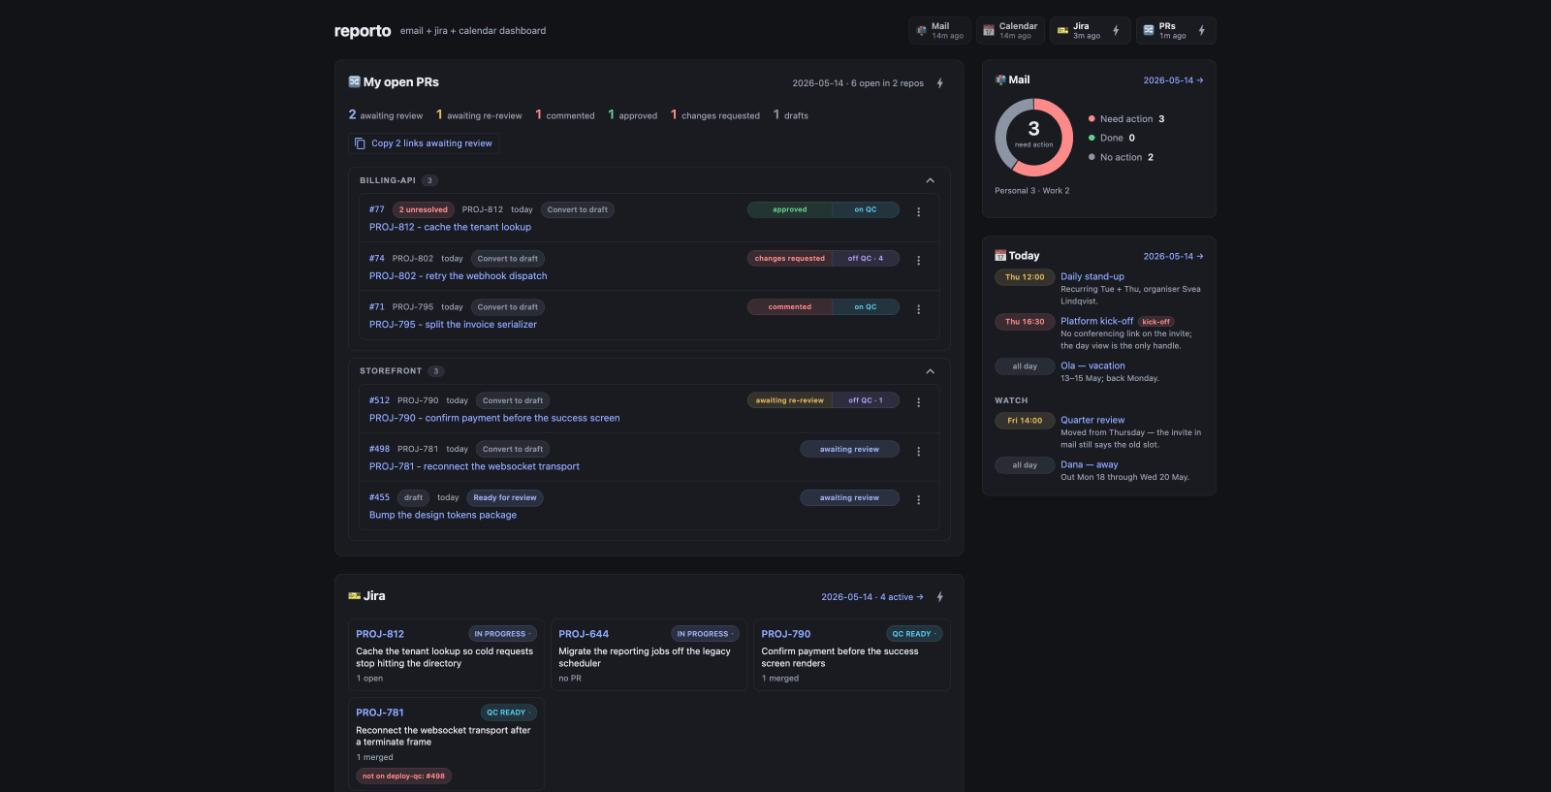
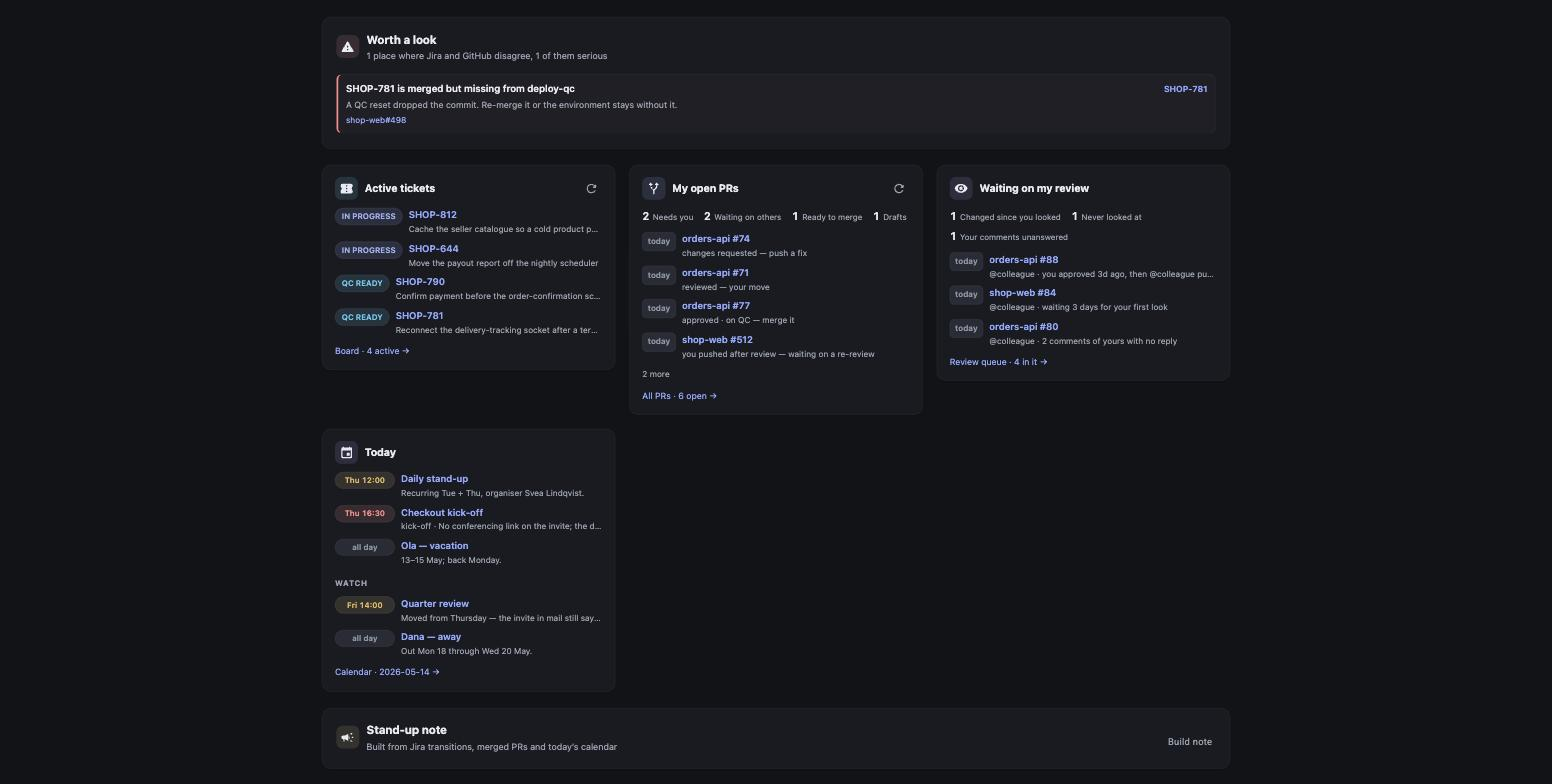
reshoot the README screenshots on the module dashboard
The screenshots still showed the old layout — the Jira panel and the PR lanes embedded
whole, with a band of monthly statistics under them. Both palettes are re-shot from the
Pages/Home story, so they show what the dashboard is now: the flow-check card, four
modules, the stand-up note.

The story restamps the review queue's dates the way it already did the PRs. Fixture
dates are fixed so stories stay deterministic, which made every review row read "104d"
— an artefact of the fixture, not something worth photographing.

diff --git a/src/stories/HomePage.stories.tsx b/src/stories/HomePage.stories.tsx
@@ -16,12 +16,24 @@ const freshPrs = {
   })),
 };
 
+/** Same for the review queue: an age pill reading "104d" is the fixture's date, not a fact. */
+const freshReviews = {
+  ...reviewsReport,
+  prs: reviewsReport.prs.map((pr, i) => ({
+    ...pr,
+    updatedAt: minutesAgo(60 + i * 120),
+    lastCommitAt: minutesAgo(60 + i * 120),
+    createdAt: minutesAgo(60 * 24 * (2 + i)),
+    myReviewAt: pr.myReviewAt ? minutesAgo(60 * 24 * (3 + i)) : null,
+  })),
+};
+
 const meta = {
   title: 'Pages/Home',
   component: HomePage,
   args: {
     jira: jiraReport,
-    reviews: reviewsReport,
+    reviews: freshReviews,
     calendar: calendarReport,
     prs: freshPrs,
   },

diff --git a/README.md b/README.md
@@ -6,12 +6,15 @@ calendar, each rendered from a JSON report on disk.
 **This is a single-user, local-only app by design.** See
 [Why it stays local](#why-it-stays-local) before considering deploying it anywhere.
 
-![The dashboard: open PRs with review and deploy-qc state, Jira tickets and the calendar
-widget](docs/home.jpg)
+![The dashboard: a flow-check card, then modules for active tickets, my open PRs, the review
+queue and today's calendar, and the stand-up note](docs/home.jpg)
 
-Rendered from the synthetic fixtures in `src/stories/fixtures.ts` via the `Pages/Home`
-story, not from real reports — those hold meeting links and ticket detail and never leave
-your disk. The same story in the Nord palette: [docs/home-nord.jpg](docs/home-nord.jpg).
+One screen of modules rather than embedded pages: each carries the few rows worth acting on
+and links to the page holding the rest. Rendered from the synthetic fixtures in
+`src/stories/fixtures.ts` via the `Pages/Home` story, not from real reports — those hold
+meeting links and ticket detail and never leave your disk. The fixtures describe an invented
+online marketplace for the same reason. The same story in the Nord palette:
+[docs/home-nord.jpg](docs/home-nord.jpg).
 
 ## Running it
 
